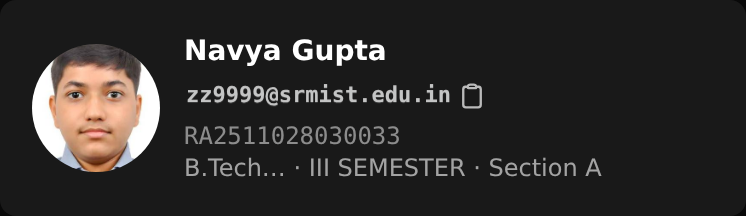
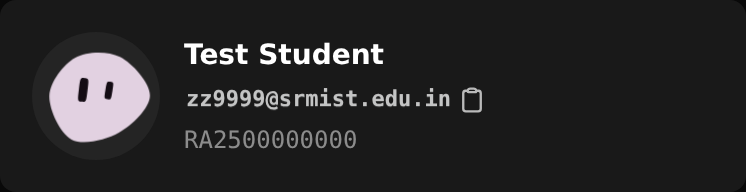
docs(screenshots): re-capture the profile evidence after the review corrections
The committed shots predated the corrections and showed the student's real
photo plus the course/semester one-liner — both removed from the widget. Re-shot
against the branch with SCOPE_FEATURES=profile: the widget now renders zero <img>
nodes and no course line (asserted in the capture run), so the evidence matches
what ships.

Committed the DUT harness the capture used (tests/e2e/test_scope_profile_dut.py).

Changed region(s): [[0.2466, 0.375, 0.8324, 0.8438], [0.0308, 0.1875, 0.2158, 0.8125], [0.2466, 0.1562, 0.5241, 0.3438]]

diff --git a/tests/e2e/test_scope_profile_dut.py b/tests/e2e/test_scope_profile_dut.py
@@ -1,0 +1,322 @@
+"""SCOPE profile DUT — the profile widget + Settings enrichment against a
+REAL server holding REAL scope_json (feature slug `profile` on).
+
+Checks (23):
+  widget  no <img>/no photo source in the DOM (the generated blobatar SVG is the
+          avatar), name / email / register number still render, NO course line
+          under the identity, unchanged 64x64 avatar + one-row identity column,
+          widget geometry inside its card, no horizontal overflow;
+  settings scope-only facts (parents, DOB, admitted date, address, university,
+          program long form) appear as rows in their EXISTING groups; a portal
+          value still wins over the scope one; empty advisors add no row;
+  contrast WCAG sweep over the widget and the opened Settings groups;
+  gate   with SCOPE_FEATURES=off the same DB renders today's widget and the
+          portal-only Settings (the feature is inert when off).
+
+Server under test: AGENTS.md. Run with DATA_DIR + DUT_BASE inline + SCOPE_FEATURES.
+"""
+import json, math, os, re, sys
+sys.path.insert(0, os.path.dirname(os.path.dirname(os.path.abspath(__file__))))
+os.environ.setdefault('DATA_DIR', '/tmp/osrm-scope-profile')
+from _seed import seed_rich, mint_token, require_own_server
+from playwright.sync_api import sync_playwright
+
+# Portal personal details: NOTHING about parents/DOB/address/university, so the
+# Settings rows below can only come from scope (portal-first is pinned by the
+# Address override case, which the portal DOES own).
+PORTAL = {"Student Name": "Test Student", "Register No.": "RA2500000000",
+          "Program": "Computer Science and Engineering Cloud Computing [B.Tech]",
+          "Batch": "2025", "Semester": "III SEMESTER", "Section": "A",
+          "Date of Birth": "01-Jan-2000",
+          "Address": "Portal Address 1, Sector 9"}
+SCOPE = {"getPersonalDetails": {"data": {
+    "father": "Uma Shanker Gupta", "mother": "Alpana Gupta",
+    "dob": "28-Feb-2008", "admitteddate": "30-Jul-2025",
+    "address": "B-35 Manavsthali Apartments, Vasundhara Enclave, Delhi",
+    "program": "B.Tech.-Computer Science and Engineering with specialization in Cloud Computing [UG - FT - ACADEMIC]",
+    "universityname": "SRM Engineering College, Ghaziabad (SRM Institute of Science and Technology)",
+    "semester": "III SEMESTER", "sectiondesc": "A", "batch": "2025",
+    "facultyadvisor": "", "academicadvisor": "",
+    # a real student photo would live here — the widget must never show it
+    "studentphoto": "X" * 64,
+}, "ts": 1760000000}}
+
+seed_rich(with_payload=False)
+from app import app as A  # noqa: E402
+c = A.db()
+c.execute("UPDATE users SET personal_details_json=?, scope_json=? WHERE netid='zz9999'",
+          (json.dumps(PORTAL), json.dumps(SCOPE)))
+c.commit(); c.close()
+TOK = mint_token()
+BASE = os.environ.get('DUT_BASE', 'http://127.0.0.1:18183')
+require_own_server(BASE)
+GATE_OFF = os.environ.get('SCOPE_PROFILE_OFF') == '1'
+results = []
+
+
+def check(name, ok, detail=""):
+    results.append((name, ok, detail))
+    print(f"  [{'PASS' if ok else 'FAIL'}] {name}" + (f" — {detail}" if detail else ""))
+
+
+# ── contrast helpers (same oklch/oklab parsing as test_personal) ──────────
+def contrast(c1, c2):
+    def lin(c):
+        c /= 255.0
+        return c / 12.92 if c <= 0.04045 else ((c + 0.055) / 1.055) ** 2.4
+    def lum(c):
+        r, g, b = [lin(x) for x in c]
+        return 0.2126 * r + 0.7152 * g + 0.0722 * b
+    a, b = sorted((lum(c1), lum(c2)), reverse=True)
+    return (a + 0.05) / (b + 0.05)
+
+
+def _oklab_to_rgb(L, a, b):
+    l_, m_, s_ = (L + 0.3963377774 * a + 0.2158037573 * b,
+                  L - 0.1055613458 * a - 0.0638541728 * b,
+                  L - 0.0894841775 * a - 1.2914855480 * b)
+    l, m, s = l_ ** 3, m_ ** 3, s_ ** 3
+    r = 4.0767416621 * l - 3.3077115913 * m + 0.2309699292 * s
+    g = -1.2684380046 * l + 2.6097574011 * m - 0.3413193965 * s
+    bb = -0.0041960863 * l - 0.7034186147 * m + 1.7076147010 * s
+    def f(x):
+        x = max(0.0, min(1.0, x))
+        x = 12.92 * x if x <= 0.0031308 else 1.055 * (x ** (1 / 2.4)) - 0.055
+        return round(x * 255)
+    return [f(r), f(g), f(bb)]
+
+
+def rgb(css, over=(0, 0, 0)):
+    s, alpha = css.strip(), 1.0
+    if '/' in s:
+        head, tail = s.split('/', 1)
+        alpha = float(re.findall(r'[\d.]+', tail)[0])
+        s = head + ')'
+    nums = [float(x) for x in re.findall(r'-?[\d.]+', s)]
+    if s.startswith('oklch'):
+        L, C, H = (nums[0] / 100 if nums[0] > 1 else nums[0]), nums[1], math.radians(nums[2])
+        col = _oklab_to_rgb(L, C * math.cos(H), C * math.sin(H))
+    elif s.startswith('oklab'):
+        L = nums[0] / 100 if nums[0] > 1 else nums[0]
+        col = _oklab_to_rgb(L, nums[1], nums[2])
+    elif 'rgb' in s:
+        col = [int(round(x)) for x in nums[:3]]
+        if len(nums) > 3:
+            alpha = nums[3]
+    elif not nums:
+        return tuple(over)
+    else:
+        raise ValueError('unparsed color: ' + css)
+    if alpha <= 0:
+        return tuple(over)
+    if alpha >= 1:
+        return tuple(col)
+    return tuple(int(round(over[i] * (1 - alpha) + col[i] * alpha)) for i in range(3))
+
+
+SWEEP = """(rootSel) => {
+  const root = document.querySelector(rootSel);
+  if (!root) return [];
+  const seen = new Set(), out = [];
+  const w = document.createTreeWalker(root, NodeFilter.SHOW_TEXT);
+  let n;
+  while ((n = w.nextNode())) {
+    const t = n.textContent.trim();
+    if (!t) continue;
+    const el = n.parentElement;
+    if (!el || seen.has(el)) continue;
+    const r = el.getBoundingClientRect();
+    if (r.width < 1 || r.height < 1) continue;
+    seen.add(el);
+    const cs = getComputedStyle(el);
+    const chain = [];
+    for (let a = el; a; a = a.parentElement) chain.push(getComputedStyle(a).backgroundColor);
+    out.push({fg: cs.color, chain, size: parseFloat(cs.fontSize),
+              weight: parseInt(cs.fontWeight, 10) || 400, text: t.slice(0, 30)});
+  }
+  return out;
+}"""
+
+
+def run_sweep(page, root, min_pairs, label):
+    rows = page.evaluate(SWEEP, root)
+    fails, parsed, unsupported = [], 0, 0
+    for r in rows:
+        try:
+            acc = (0, 0, 0)
+            for css in reversed(r['chain']):
+                acc = rgb(css, over=acc)
+            fg = rgb(r['fg'], over=acc)
+            ratio = contrast(fg, acc)
+        except ValueError:
+            unsupported += 1
+            continue
+        parsed += 1
+        large = r['size'] >= 24 or (r['size'] >= 18.66 and r['weight'] >= 700)
+        need = 3.0 if large else 4.5
+        if ratio < need:
+            fails.append(f"{r['text']!r} {ratio:.2f}:1 (need {need})")
+    check(f'{label}: contrast sweep 0 fails ({parsed} parsed, {unsupported} unsupported)',
+          not fails and len(rows) >= min_pairs and parsed >= min_pairs - unsupported,
+          f'pairs={len(rows)} min={min_pairs} ' + '; '.join(fails[:4]))
+    return len(rows)
+
+
+# ── DOM probes ───────────────────────────────────────────────────────────
+WIDGET = """() => {
+  // the profile widget = the .wbox that owns #copyEmail
+  const box = document.getElementById('copyEmail').closest('.wbox');
+  const card = box.closest('.card');
+  const av = box.querySelector('.avatar > div');
+  const avR = av.getBoundingClientRect();
+  const col = box.querySelector('.min-w-0.flex-1');
+  const kids = [...col.children].filter(k => k.getBoundingClientRect().height > 0);
+  const img = box.querySelector('img');
+  const bg = getComputedStyle(av).backgroundImage;
+  return {
+    hasImg: !!img, imgSrc: img ? img.getAttribute('src') : null,
+    avatarBgImage: bg, avatarW: Math.round(avR.width), avatarH: Math.round(avR.height),
+    kids: kids.length,
+    lines: kids.map(k => k.textContent.trim().slice(0, 60)),
+    svg: box.querySelectorAll('svg').length,
+    text: box.textContent.replace(/\\s+/g, ' ').trim(),
+    box: {top: box.getBoundingClientRect().top, bottom: box.getBoundingClientRect().bottom,
+          left: box.getBoundingClientRect().left, right: box.getBoundingClientRect().right},
+    card: {top: card.getBoundingClientRect().top, bottom: card.getBoundingClientRect().bottom,
+           left: card.getBoundingClientRect().left, right: card.getBoundingClientRect().right},
+    colLeft: Math.round(col.getBoundingClientRect().left),
+    avRight: Math.round(avR.right),
+    overflow: document.documentElement.scrollWidth - window.innerWidth,
+    innerOverflow: box.scrollWidth - box.clientWidth,
+  };
+}"""
+
+SETTINGS = """() => {
+  const tab = document.getElementById('tab-settings');
+  const row = document.getElementById('personal-details');
+  const groups = [...row.querySelectorAll('.collapse')];
+  const out = {};
+  for (const g of groups) {
+    const title = g.querySelector('.collapse-title span').textContent.trim();
+    out[title] = {
+      badge: g.querySelector('.badge').textContent.trim(),
+      rows: [...g.querySelectorAll('.grid > div')].map(c => ({
+        k: c.children[0].textContent.trim(), v: c.children[1].textContent.trim(),
+        mono: c.children[1].classList.contains('font-mono')})),
+    };
+  }
+  return {groups: out, html: tab.innerHTML,
+          overflow: document.documentElement.scrollWidth - window.innerWidth,
+          h1lbl: [...groups[0].querySelectorAll('.text-xs.uppercase')].length};
+}"""
+
+def goto_settings(page):
+    """Switch to the Settings panel through its real tab button (the hash is
+    NOT a navigation input here — the app restores it once at load only)."""
+    vis = page.locator('#tab-settings-tab:visible')
+    (vis.first if vis.count() else page.locator('#tab-settings-tab')).click()
+    page.wait_for_timeout(700)
+
+
+def open_settings(page, tag):
+    """Open the personal-details row + every group the way a user does (click
+    the title, which toggles the collapse's checkbox) and let the transition
+    settle — this doubles as the touch/click path check."""
+    page.evaluate("() => { document.querySelector('#personal-details > input').checked = true; }")
+    page.wait_for_timeout(400)
+    n = page.evaluate("() => document.querySelectorAll('#personal-details .collapse').length")
+    page.evaluate("() => document.querySelectorAll('#personal-details .collapse > input')"
+                  ".forEach(i => { i.checked = true; })")
+    # daisyUI transitions visibility through the checkbox wait: give the
+    # collapse-content a visible box before measuring (the suite owns this
+    # wait, the app owns nothing here)
+    page.add_style_tag(content="#personal-details .collapse-content{visibility:visible;"
+                              "max-height:none;transition:none;padding-top:.5rem;padding-bottom:.5rem}")
+    page.wait_for_timeout(600)
+
+
+with sync_playwright() as p:
+    b = p.chromium.launch(args=['--font-render-hinting=none', '--force-color-profile=srgb'])
+    for vp, tag in (({'width': 1280, 'height': 900}, 'desktop'),
+                    ({'width': 393, 'height': 851}, 'mobile')):
+        ctx = b.new_context(viewport=vp, device_scale_factor=2,
+                            permissions=['clipboard-read', 'clipboard-write'])
+        ctx.add_cookies([{'name': 'srm_session', 'value': TOK, 'url': BASE}])
+        page = ctx.new_page()
+        page.goto(f'{BASE}/', wait_until='networkidle')
+        page.reload(wait_until='networkidle')
+        page.wait_for_timeout(1200)
+        w = page.evaluate(WIDGET)
+
+        check(f'{tag}: profile widget renders NO photo <img>',
+              not w['hasImg'] and w['avatarBgImage'] in ('none', ''),
+              f"img={w['hasImg']} src={w['imgSrc']} bg={w['avatarBgImage'][:30]}")
+        check(f'{tag}: generated blobatar SVG is the avatar',
+              w['svg'] >= 2 and w['avatarW'] == 64 and w['avatarH'] == 64,
+              f"svg={w['svg']} {w['avatarW']}x{w['avatarH']}")
+        check(f'{tag}: identity = name / email / register no, nothing else',
+              len(w['lines']) == 3
+              and 'Test Student' in w['lines'][0]
+              and 'zz9999@srmist.edu.in' in w['lines'][1]
+              and 'RA2500000000' in w['lines'][2],
+              str(w['lines']))
+        check(f'{tag}: no course / semester / section one-liner',
+              not re.search(r'(B\.Tech|SEMESTER|Section [A-Z]\\b|CSE)', w['text'])
+              and 'studentphoto' not in w['text'],
+              w['text'][:90])
+        check(f'{tag}: widget stays inside its card, avatar left of the column',
+              w['box']['top'] >= w['card']['top'] - 0.5
+              and w['box']['bottom'] <= w['card']['bottom'] + 0.5
+              and w['box']['left'] >= w['card']['left'] - 0.5
+              and w['avRight'] <= w['colLeft'],
+              f"box={w['box']} card={w['card']} avRight={w['avRight']} colLeft={w['colLeft']}")
+        check(f'{tag}: no horizontal overflow (page or widget)',
+              w['overflow'] <= 0 and w['innerOverflow'] <= 0,
+              f"page={w['overflow']} widget={w['innerOverflow']}")
+        run_sweep(page, '.wbox:has(#copyEmail)', 3, tag + ' widget')
+
+        # ── Settings: scope enrichment ──
+        goto_settings(page)
+        open_settings(page, tag)
+        s = page.evaluate(SETTINGS)
+        fam = {r['k']: r['v'] for r in s['groups']['Family']['rows']}
+        per = {r['k']: r['v'] for r in s['groups']['Personal']['rows']}
+        aca = {r['k']: r['v'] for r in s['groups']['Academic']['rows']}
+        con = {r['k']: r['v'] for r in s['groups']['Contact']['rows']}
+        if GATE_OFF:
+            check(f'{tag}: gate off — no scope-only rows anywhere',
+                  'Father Name' not in fam and 'Admitted On' not in per
+                  and 'University' not in aca and 'Program (Full)' not in aca,
+                  f"fam={list(fam)} per={list(per)} aca={list(aca)}")
+            run_sweep(page, '#tab-settings', 10, tag + ' settings(off)')
+        else:
+            check(f'{tag}: Settings Family gains parents from SCOPE',
+                  fam.get('Father Name') == 'Uma Shanker Gupta'
+                  and fam.get('Mother Name') == 'Alpana Gupta', str(fam))
+            check(f'{tag}: Settings Personal gains Admitted On; portal DOB still wins',
+                  per.get('Admitted On') == '30-Jul-2025'
+                  and per.get('Date of Birth') == '01-Jan-2000',
+                  f"admitted={per.get('Admitted On')} dob={per.get('Date of Birth')}")
+            check(f'{tag}: Settings Contact keeps the PORTAL address (portal wins)',
+                  con.get('Address') == PORTAL['Address'], str(con.get('Address')))
+            check(f'{tag}: Settings Academic gains University + Program (Full)',
+                  'SRM Engineering College' in aca.get('University', '')
+                  and 'specialization in Cloud Computing' in aca.get('Program (Full)', ''),
+                  f"uni={aca.get('University','')[:24]} prog={aca.get('Program (Full)','')[:24]}")
+            check(f'{tag}: empty advisors add no rows',
+                  'Faculty Advisor' not in aca and 'Academic Advisor' not in aca,
+                  f"academic keys={list(aca)}")
+            check(f'{tag}: no duplicate rows — scope long form is the only "Program (Full)"',
+                  'Program (Full)' in aca and list(aca).count('Program (Full)') == 1
+                  and PORTAL['Program'] in s['html'],
+                  f"aca={list(aca)}")
+            check(f'{tag}: scope photo never reaches the page',
+                  'XXXX' not in s['html'] and 'studentphoto' not in s['html'], '')
+            run_sweep(page, '#tab-settings', 20, tag + ' settings')
+        check(f'{tag}: Settings has no horizontal overflow', s['overflow'] <= 0, str(s['overflow']))
+        ctx.close()
+    b.close()
+
+fails = [r for r in results if not r[1]]
+print(f"\n{len(results) - len(fails)}/{len(results)} PASS")
+sys.exit(1 if fails else 0)
